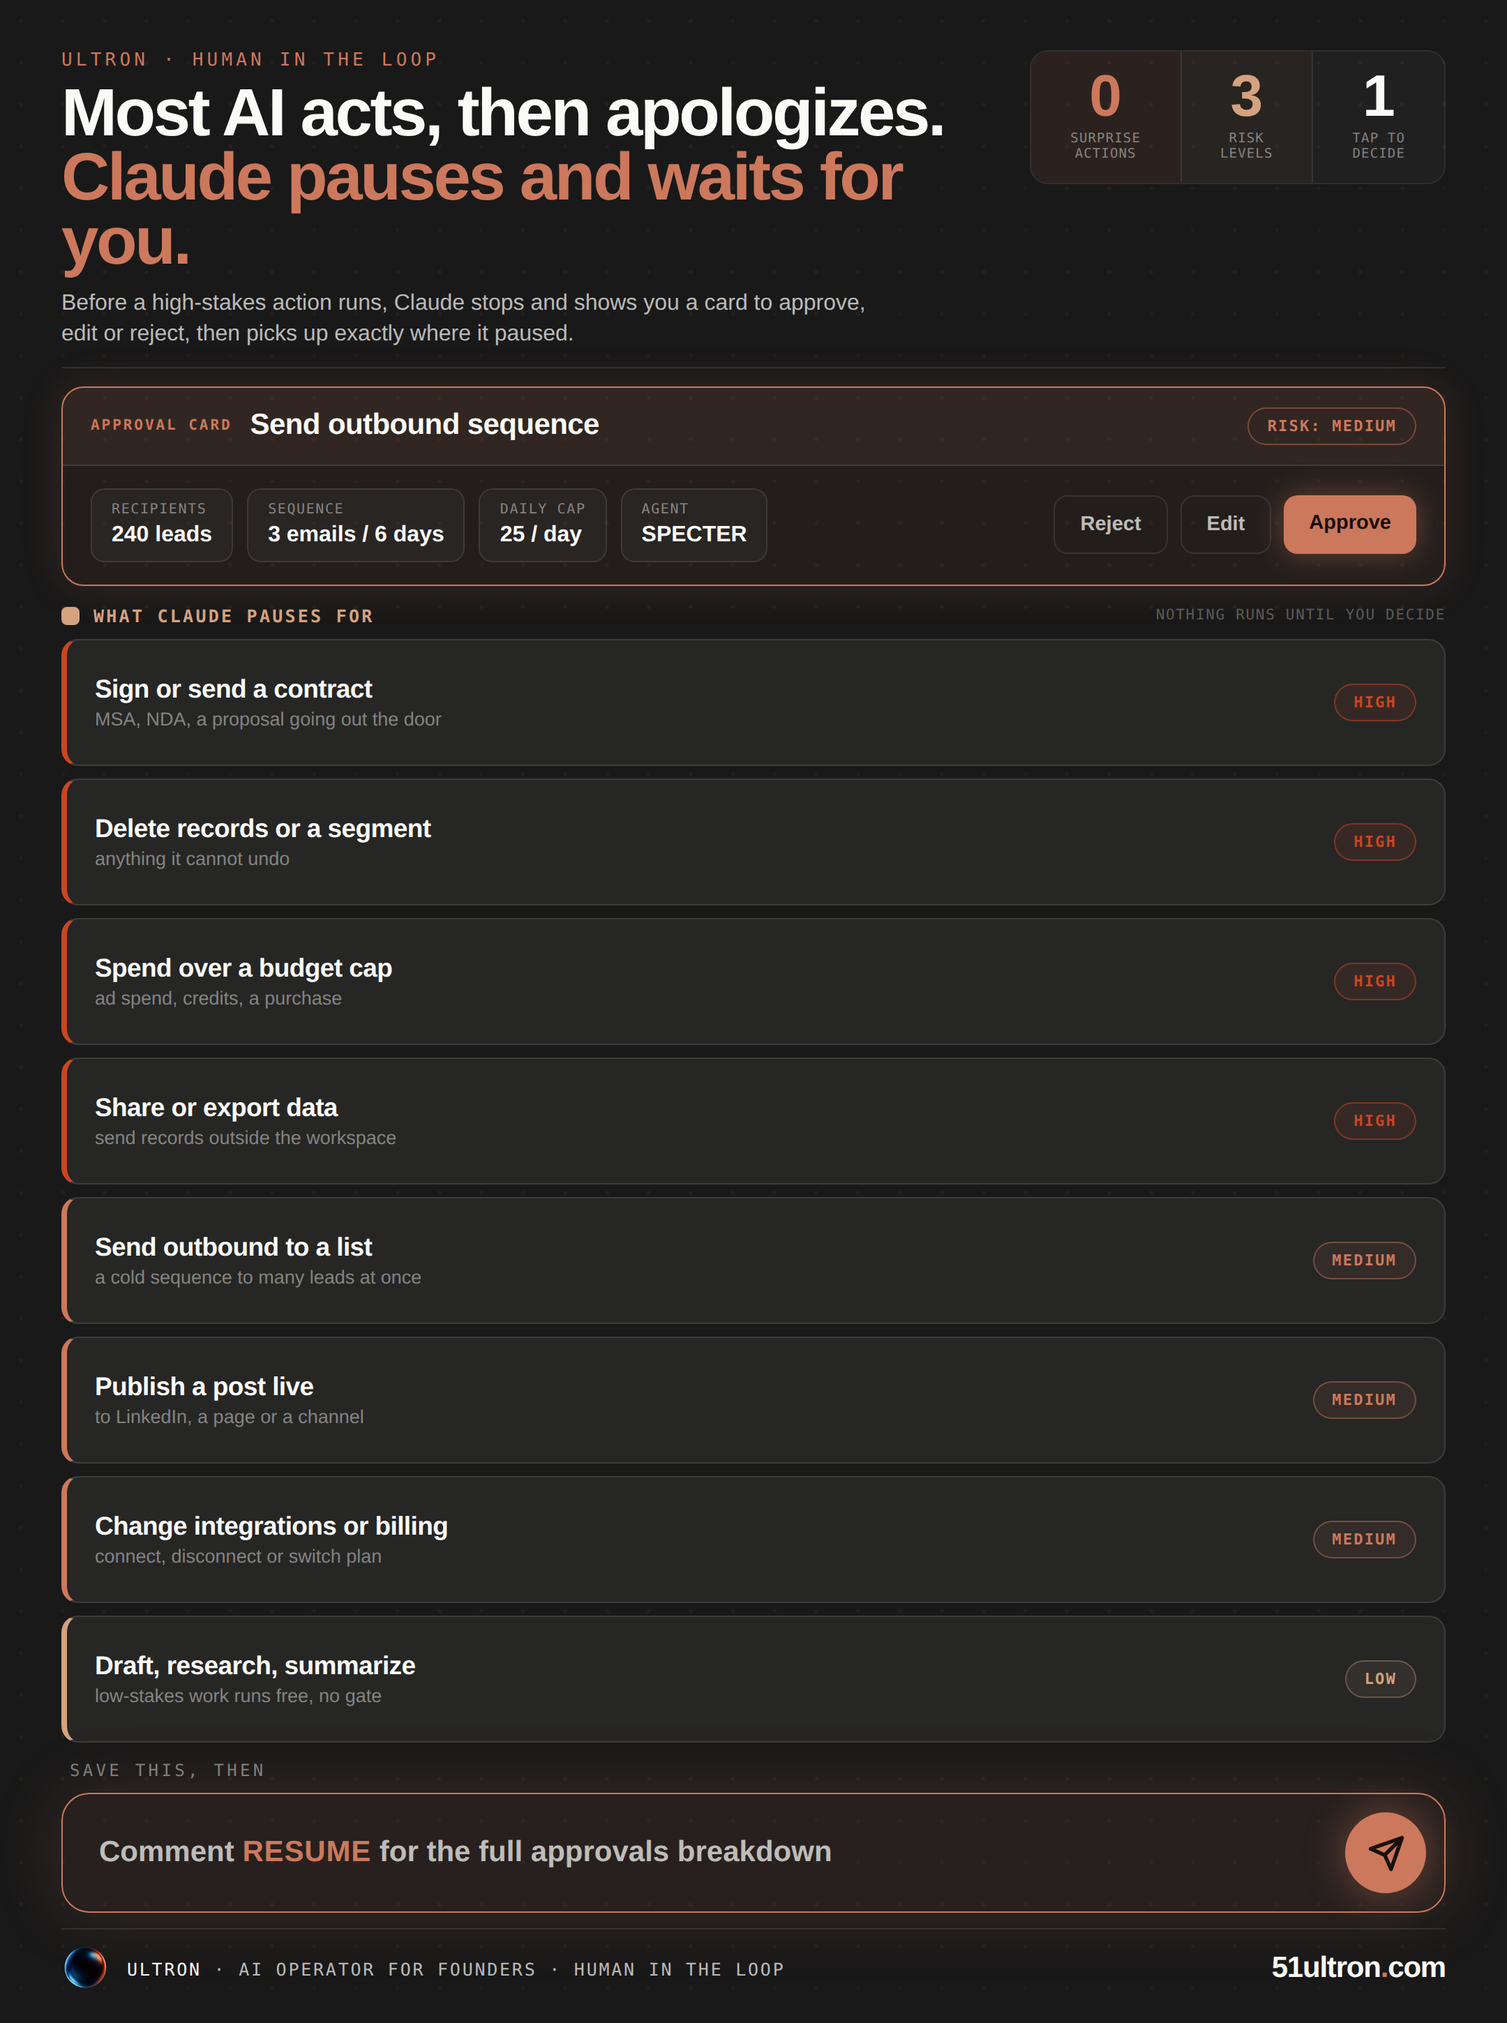
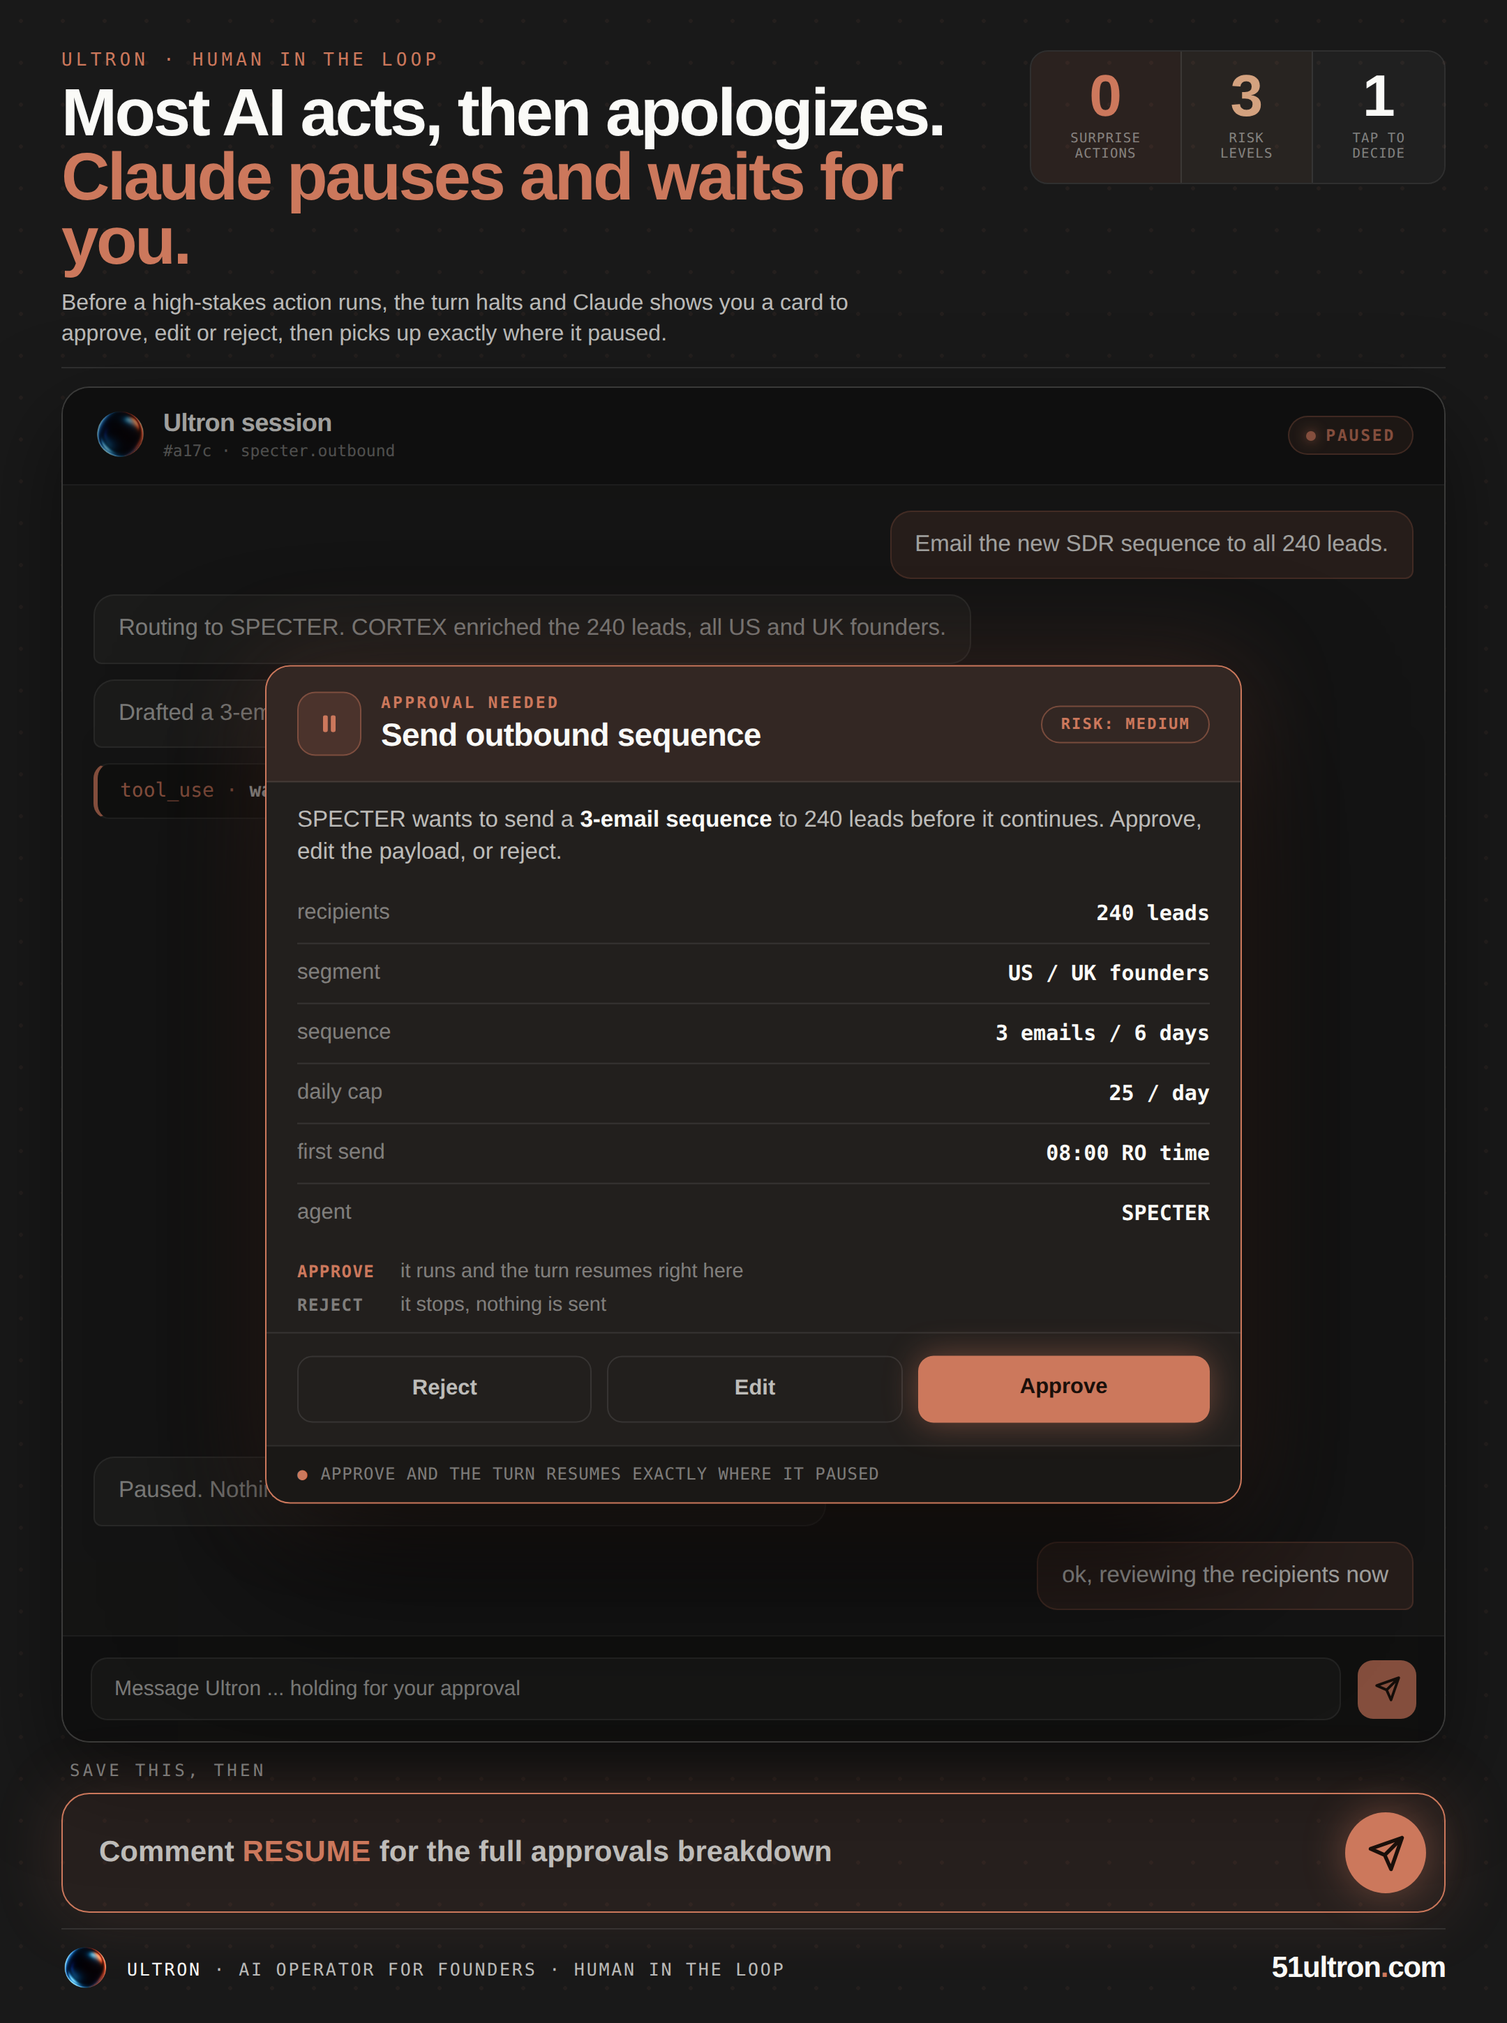
content: docs-12 - premium approval modal over the dimmed paused chat (operator pick)
Rebuilt as the real in-app moment: a dimmed, paused Ultron chat session in the background
with the approval MODAL floating over it (APPROVAL NEEDED, risk badge, 6 payload rows,
approve/reject preview, Reject/Edit/Approve, 'resumes exactly where it paused'). No code,
founder-ICP, distinct from docs-11 (5% body overlap). Passes the guard (dead band 75px).

diff --git a/content/docs-12-resume-linkedin.html b/content/docs-12-resume-linkedin.html
@@ -15,37 +15,49 @@ body{background:#0d0d0d;display:flex;justify-content:center;padding:24px 0;font-
 .st .sn{font-weight:900;font-size:42px;line-height:.78;}.st.a .sn{color:var(--book);}.st.b .sn{color:var(--kraft);}.st.c .sn{color:var(--ivory);}
 .st.a{background:rgba(204,120,92,.1);}.st.b{background:rgba(212,162,127,.08);}.st.c{background:rgba(250,250,247,.03);}
 .st .sl{font-family:'DM Mono',monospace;font-size:9.5px;font-weight:500;letter-spacing:.06em;text-transform:uppercase;color:var(--ink46);margin-top:8px;line-height:1.2;}
-/* approval card - full-width artifact */
-.acard{flex-shrink:0;margin-top:13px;border:1px solid var(--book);border-radius:16px;overflow:hidden;background:rgba(204,120,92,.06);box-shadow:0 0 30px rgba(204,120,92,.16);}
-.acard .ah{display:flex;align-items:center;gap:13px;padding:14px 20px;border-bottom:1px solid var(--rule);background:rgba(204,120,92,.09);}
-.acard .ah .lbl2{font-family:'DM Mono',monospace;font-size:10.5px;font-weight:600;letter-spacing:.14em;text-transform:uppercase;color:var(--book);}
-.acard .ah .ttl{font-weight:800;font-size:21px;color:var(--ivory);letter-spacing:-.3px;}
-.acard .ah .ttl b{color:var(--book);font-weight:800;}
-.acard .ah .risk{margin-left:auto;font-family:'DM Mono',monospace;font-size:11px;font-weight:600;letter-spacing:.1em;text-transform:uppercase;color:var(--book);border:1px solid rgba(204,120,92,.45);border-radius:20px;padding:6px 13px;white-space:nowrap;}
-.acard .body2{display:flex;align-items:center;gap:16px;padding:16px 20px;}
-.pchips{flex:1;display:flex;flex-wrap:wrap;gap:10px;}
-.pchip{display:flex;flex-direction:column;gap:4px;border:1px solid var(--rule);border-radius:10px;padding:9px 14px;background:rgba(250,250,247,.03);}
-.pchip i{font-family:'DM Mono',monospace;font-size:10px;letter-spacing:.08em;text-transform:uppercase;color:var(--ink46);font-style:normal;}
-.pchip b{font-size:16px;font-weight:700;color:var(--ivory);}
-.acts{display:flex;gap:9px;flex-shrink:0;}
-.acts .b{text-align:center;font-size:14.5px;font-weight:800;padding:12px 18px;border-radius:10px;}
-.acts .b.rej,.acts .b.edit{border:1px solid var(--rule);color:var(--ink70);}
-.acts .b.appr{background:var(--book);color:#1a0f0a;box-shadow:0 0 22px rgba(204,120,92,.42);}
-/* what Claude pauses for - dense full-width list */
-.colh{flex-shrink:0;display:flex;align-items:center;gap:10px;margin:14px 0 9px;}
-.colh .sq{width:13px;height:13px;border-radius:4px;background:var(--kraft);flex-shrink:0;}
-.colh .lb{font-family:'DM Mono',monospace;font-size:12.5px;font-weight:600;letter-spacing:.13em;text-transform:uppercase;color:var(--kraft);}
-.colh .rt{margin-left:auto;font-family:'DM Mono',monospace;font-size:10.5px;letter-spacing:.08em;text-transform:uppercase;color:var(--ink30);}
-.gates{flex:1;min-height:0;display:flex;flex-direction:column;gap:9px;}
-.gate{flex:1;display:flex;align-items:center;gap:16px;border:1px solid var(--rule);border-radius:12px;padding:0 20px;background:var(--slate2);}
-.gate.high{border-left:4px solid var(--book-d);}.gate.med{border-left:4px solid var(--book);}.gate.low{border-left:4px solid var(--kraft);}
-.gate .gt{flex:1;min-width:0;}
-.gate .ac{font-weight:800;font-size:18.5px;color:var(--ivory);letter-spacing:-.3px;line-height:1.08;}
-.gate .nt{font-size:13.5px;color:var(--ink46);margin-top:4px;}
-.gate .rk{font-family:'DM Mono',monospace;font-size:11px;font-weight:600;letter-spacing:.1em;text-transform:uppercase;border-radius:20px;padding:6px 13px;white-space:nowrap;flex-shrink:0;}
-.gate.high .rk{color:var(--book-d);border:1px solid rgba(200,70,35,.5);background:rgba(200,70,35,.1);}
-.gate.med .rk{color:var(--book);border:1px solid rgba(204,120,92,.45);background:rgba(204,120,92,.08);}
-.gate.low .rk{color:var(--kraft);border:1px solid var(--kraft-bd,rgba(212,162,127,.35));background:rgba(212,162,127,.08);}
+/* app window: a dimmed paused chat with the approval MODAL over it */
+.win{flex:1;min-height:0;margin-top:13px;position:relative;border:1px solid var(--ink14);border-radius:20px;overflow:hidden;background:#1b1b1a;box-shadow:0 26px 66px rgba(0,0,0,.5);}
+.bchat{position:absolute;inset:0;display:flex;flex-direction:column;opacity:.9;}
+.bchd{flex-shrink:0;display:flex;align-items:center;gap:12px;padding:15px 22px;border-bottom:1px solid var(--rule);background:#151514;}
+.bchd .av{width:38px;height:38px;border-radius:50%;object-fit:cover;}
+.bchd b{font-size:18px;font-weight:800;color:var(--ivory);letter-spacing:-.3px;}
+.bchd span{font-family:'DM Mono',monospace;font-size:11.5px;color:var(--ink46);}
+.bchd .pz{margin-left:auto;display:flex;align-items:center;gap:7px;font-family:'DM Mono',monospace;font-size:11.5px;font-weight:600;letter-spacing:.12em;text-transform:uppercase;color:var(--book);background:rgba(204,120,92,.12);border:1px solid rgba(204,120,92,.34);padding:6px 12px;border-radius:30px;}
+.bchd .pz i{width:7px;height:7px;border-radius:50%;background:var(--book);box-shadow:0 0 9px var(--book);}
+.bbody{flex:1;min-height:0;padding:18px 22px;display:flex;flex-direction:column;justify-content:space-between;}
+.bgrp{display:flex;flex-direction:column;gap:11px;}
+.bmsg{max-width:72%;padding:13px 17px;border-radius:15px;font-size:16.5px;font-weight:500;line-height:1.3;}
+.bmsg.u{align-self:flex-end;background:rgba(204,120,92,.16);border:1px solid rgba(204,120,92,.3);color:var(--ivory);border-bottom-right-radius:6px;}
+.bmsg.a{align-self:flex-start;background:var(--slate2);border:1px solid var(--rule);color:var(--ink70);border-bottom-left-radius:6px;}
+.btool{align-self:flex-start;font-family:'DM Mono',monospace;font-size:14px;color:var(--book);border:1px solid var(--rule);border-left:3px solid var(--book);border-radius:11px;padding:11px 16px;background:#151514;}
+.btool b{color:var(--ivory);}
+.binput{flex-shrink:0;display:flex;align-items:center;gap:12px;padding:15px 20px;border-top:1px solid var(--rule);background:#151514;}
+.binput .box{flex:1;border:1px solid var(--rule);border-radius:12px;padding:13px 16px;color:var(--ink70);font-size:15px;background:rgba(250,250,247,.04);}
+.binput .snd{width:42px;height:42px;border-radius:11px;background:var(--book);flex-shrink:0;display:flex;align-items:center;justify-content:center;}
+.binput .snd svg{width:19px;height:19px;stroke:#1a0f0a;stroke-width:2.4;fill:none;stroke-linecap:round;stroke-linejoin:round;}
+.scrim{position:absolute;inset:0;background:rgba(8,6,5,.3);}
+.modal{position:absolute;left:50%;top:51.5%;transform:translate(-50%,-50%);width:700px;border:1px solid var(--book);border-radius:18px;background:#221f1d;overflow:hidden;box-shadow:0 42px 110px rgba(0,0,0,.72),0 0 70px rgba(204,120,92,.22);}
+.mdec{padding:7px 22px 11px;display:flex;flex-direction:column;gap:8px;}
+.mdec .dr{display:flex;align-items:center;gap:10px;font-size:14.5px;color:var(--ink46);}
+.mdec .dr b{font-family:'DM Mono',monospace;font-size:12px;letter-spacing:.06em;text-transform:uppercase;color:var(--book);width:64px;flex-shrink:0;}
+.mdec .dr.no b{color:var(--ink46);}
+.mhead{display:flex;align-items:center;gap:14px;padding:18px 22px;border-bottom:1px solid var(--rule);background:rgba(204,120,92,.1);}
+.mhead .ic{width:46px;height:46px;border-radius:13px;background:rgba(204,120,92,.16);border:1px solid rgba(204,120,92,.4);display:flex;align-items:center;justify-content:center;flex-shrink:0;}
+.mhead .ic svg{width:24px;height:24px;fill:var(--book);}
+.mhead .ht .k{font-family:'DM Mono',monospace;font-size:11.5px;font-weight:600;letter-spacing:.14em;text-transform:uppercase;color:var(--book);}
+.mhead .ht .t{font-size:23px;font-weight:800;color:var(--ivory);letter-spacing:-.4px;margin-top:3px;}
+.mhead .risk{margin-left:auto;font-family:'DM Mono',monospace;font-size:11px;font-weight:600;letter-spacing:.1em;text-transform:uppercase;color:var(--book);border:1px solid rgba(204,120,92,.45);border-radius:20px;padding:6px 13px;white-space:nowrap;}
+.msum{padding:16px 22px 4px;font-size:16.5px;line-height:1.35;color:var(--ink70);}.msum b{color:var(--ivory);font-weight:700;}
+.mrows{padding:8px 22px 6px;}
+.mrow{display:flex;justify-content:space-between;align-items:center;padding:12px 0;border-top:1px solid var(--rule);font-size:15.5px;}
+.mrow:first-child{border-top:none;}
+.mrow span{color:var(--ink46);}.mrow b{color:var(--ivory);font-weight:600;font-family:'DM Mono',monospace;font-size:15px;}
+.macts{display:flex;gap:11px;padding:16px 22px;border-top:1px solid var(--rule);}
+.macts .b{flex:1;text-align:center;font-size:15.5px;font-weight:800;padding:14px;border-radius:11px;}
+.macts .b.rej,.macts .b.edit{border:1px solid var(--rule);color:var(--ink70);}
+.macts .b.appr{background:var(--book);color:#1a0f0a;box-shadow:0 0 24px rgba(204,120,92,.45);}
+.mfoot{display:flex;align-items:center;gap:9px;padding:13px 22px;border-top:1px solid var(--rule);background:rgba(0,0,0,.22);font-family:'DM Mono',monospace;font-size:12px;letter-spacing:.04em;text-transform:uppercase;color:var(--ink46);}
+.mfoot em{color:var(--book);font-style:normal;}
 .cta{display:flex;align-items:center;gap:16px;border:1.5px solid var(--book);border-radius:20px;background:rgba(204,120,92,.08);padding:13px 13px 13px 26px;box-shadow:0 0 50px rgba(204,120,92,.18);}
 .ctawrap{flex-shrink:0;margin-top:13px;}
 .savel{font-family:'DM Mono',monospace;font-size:12px;font-weight:500;letter-spacing:.18em;text-transform:uppercase;color:var(--ink46);margin-bottom:9px;padding-left:6px;}
@@ -57,30 +69,41 @@ body{background:#0d0d0d;display:flex;justify-content:center;padding:24px 0;font-
 .ftx{font-family:'DM Mono',monospace;font-size:12.5px;font-weight:400;letter-spacing:.11em;text-transform:uppercase;color:var(--ink70);}.ftx b{color:var(--ivory);font-weight:500;}
 .furl{font-weight:900;font-size:21px;letter-spacing:-.6px;color:var(--ivory);}.furl em{color:var(--book);font-style:normal;}
 </style></head><body><div class="frame" id="artifact"><div class="atm"></div>
-<div class="hero"><div><div class="eye">Ultron &middot; Human in the Loop</div><div class="hook">Most AI acts, then apologizes. <em>Claude pauses and waits for you.</em></div><div class="sub">Before a high-stakes action runs, Claude stops and shows you a card to approve, edit or reject, then picks up exactly where it paused.</div></div>
+<div class="hero"><div><div class="eye">Ultron &middot; Human in the Loop</div><div class="hook">Most AI acts, then apologizes. <em>Claude pauses and waits for you.</em></div><div class="sub">Before a high-stakes action runs, the turn halts and Claude shows you a card to approve, edit or reject, then picks up exactly where it paused.</div></div>
 <div class="statile"><div class="st a"><div class="sn">0</div><div class="sl">surprise<br>actions</div></div><div class="st b"><div class="sn">3</div><div class="sl">risk<br>levels</div></div><div class="st c"><div class="sn">1</div><div class="sl">tap to<br>decide</div></div></div></div>
-<div class="acard">
-<div class="ah"><span class="lbl2">Approval card</span><span class="ttl">Send outbound sequence</span><span class="risk">risk: medium</span></div>
-<div class="body2">
-<div class="pchips">
-<span class="pchip"><i>recipients</i><b>240 leads</b></span>
-<span class="pchip"><i>sequence</i><b>3 emails / 6 days</b></span>
-<span class="pchip"><i>daily cap</i><b>25 / day</b></span>
-<span class="pchip"><i>agent</i><b>SPECTER</b></span>
+<div class="win">
+<div class="bchat">
+<div class="bchd"><img class="av" src="__LOGO_URI__" alt="Ultron"><div><b>Ultron session</b><br><span>#a17c &middot; specter.outbound</span></div><div class="pz"><i></i>Paused</div></div>
+<div class="bbody">
+<div class="bgrp">
+<div class="bmsg u">Email the new SDR sequence to all 240 leads.</div>
+<div class="bmsg a">Routing to SPECTER. CORTEX enriched the 240 leads, all US and UK founders.</div>
+<div class="bmsg a">Drafted a 3-email sequence over 6 days, capped at 25 a day.</div>
+<div class="btool">tool_use &middot; <b>wait_for_approval</b></div>
 </div>
-<div class="acts"><span class="b rej">Reject</span><span class="b edit">Edit</span><span class="b appr">Approve</span></div>
+<div class="bgrp">
+<div class="bmsg a">Paused. Nothing leaves until you approve, and I resume right here.</div>
+<div class="bmsg u">ok, reviewing the recipients now</div>
 </div>
 </div>
-<div class="colh"><span class="sq"></span><span class="lb">What Claude pauses for</span><span class="rt">nothing runs until you decide</span></div>
-<div class="gates">
-<div class="gate high"><div class="gt"><div class="ac">Sign or send a contract</div><div class="nt">MSA, NDA, a proposal going out the door</div></div><span class="rk">high</span></div>
-<div class="gate high"><div class="gt"><div class="ac">Delete records or a segment</div><div class="nt">anything it cannot undo</div></div><span class="rk">high</span></div>
-<div class="gate high"><div class="gt"><div class="ac">Spend over a budget cap</div><div class="nt">ad spend, credits, a purchase</div></div><span class="rk">high</span></div>
-<div class="gate high"><div class="gt"><div class="ac">Share or export data</div><div class="nt">send records outside the workspace</div></div><span class="rk">high</span></div>
-<div class="gate med"><div class="gt"><div class="ac">Send outbound to a list</div><div class="nt">a cold sequence to many leads at once</div></div><span class="rk">medium</span></div>
-<div class="gate med"><div class="gt"><div class="ac">Publish a post live</div><div class="nt">to LinkedIn, a page or a channel</div></div><span class="rk">medium</span></div>
-<div class="gate med"><div class="gt"><div class="ac">Change integrations or billing</div><div class="nt">connect, disconnect or switch plan</div></div><span class="rk">medium</span></div>
-<div class="gate low"><div class="gt"><div class="ac">Draft, research, summarize</div><div class="nt">low-stakes work runs free, no gate</div></div><span class="rk">low</span></div>
+<div class="binput"><div class="box">Message Ultron ... holding for your approval</div><div class="snd"><svg viewBox="0 0 24 24"><path d="M22 2L11 13M22 2l-7 20-4-9-9-4z"/></svg></div></div>
+</div>
+<div class="scrim"></div>
+<div class="modal">
+<div class="mhead"><div class="ic"><svg viewBox="0 0 24 24"><rect x="7.5" y="6" width="3.4" height="12" rx="1.2"/><rect x="13.1" y="6" width="3.4" height="12" rx="1.2"/></svg></div><div class="ht"><div class="k">Approval needed</div><div class="t">Send outbound sequence</div></div><div class="risk">risk: medium</div></div>
+<div class="msum">SPECTER wants to send a <b>3-email sequence</b> to 240 leads before it continues. Approve, edit the payload, or reject.</div>
+<div class="mrows">
+<div class="mrow"><span>recipients</span><b>240 leads</b></div>
+<div class="mrow"><span>segment</span><b>US / UK founders</b></div>
+<div class="mrow"><span>sequence</span><b>3 emails / 6 days</b></div>
+<div class="mrow"><span>daily cap</span><b>25 / day</b></div>
+<div class="mrow"><span>first send</span><b>08:00 RO time</b></div>
+<div class="mrow"><span>agent</span><b>SPECTER</b></div>
+</div>
+<div class="mdec"><div class="dr"><b>Approve</b>it runs and the turn resumes right here</div><div class="dr no"><b>Reject</b>it stops, nothing is sent</div></div>
+<div class="macts"><span class="b rej">Reject</span><span class="b edit">Edit</span><span class="b appr">Approve</span></div>
+<div class="mfoot"><em>&#9679;</em> Approve and the turn resumes exactly where it paused</div>
+</div>
 </div>
 <div class="ctawrap"><div class="savel">Save this, then</div><div class="cta"><span class="ph">Comment <b>RESUME</b> for the full approvals breakdown</span><span class="send"><svg viewBox="0 0 24 24"><path d="M22 2L11 13M22 2l-7 20-4-9-9-4z"/></svg></span></div></div>
 <div class="ftr"><div class="fl2"><img class="flogo" src="__LOGO_URI__" alt="Ultron"><div class="ftx"><b>ULTRON</b> &middot; AI OPERATOR FOR FOUNDERS &middot; HUMAN IN THE LOOP</div></div><div class="furl">51ultron<em>.</em>com</div></div>
